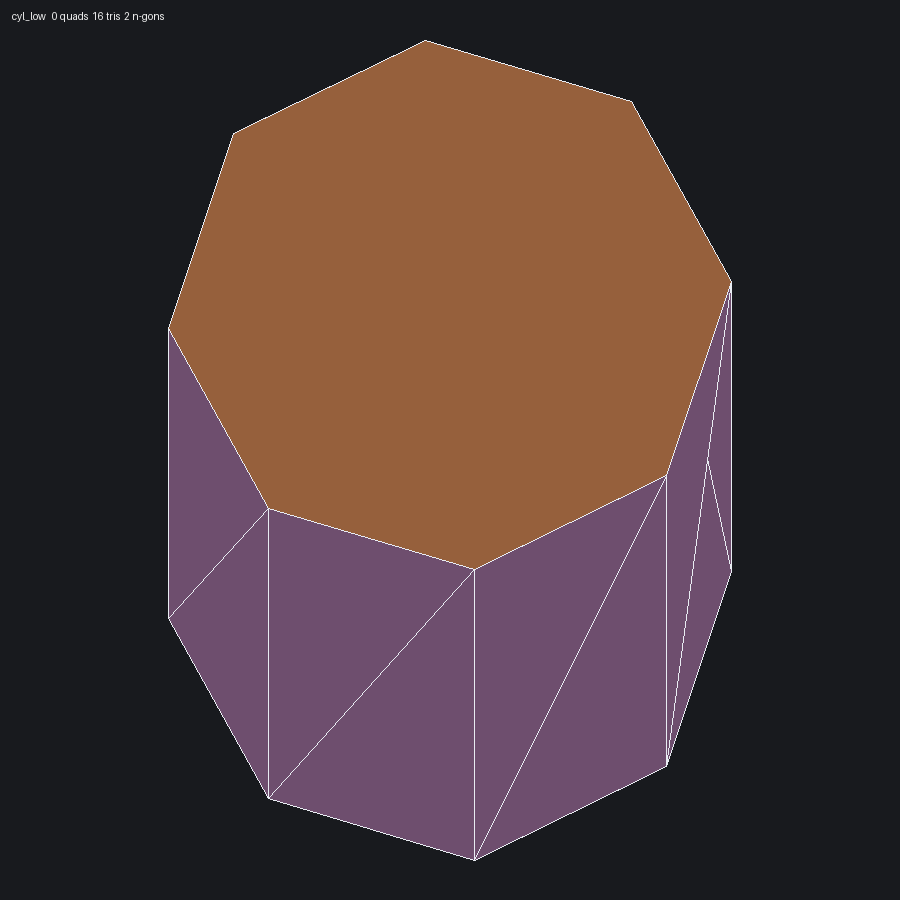
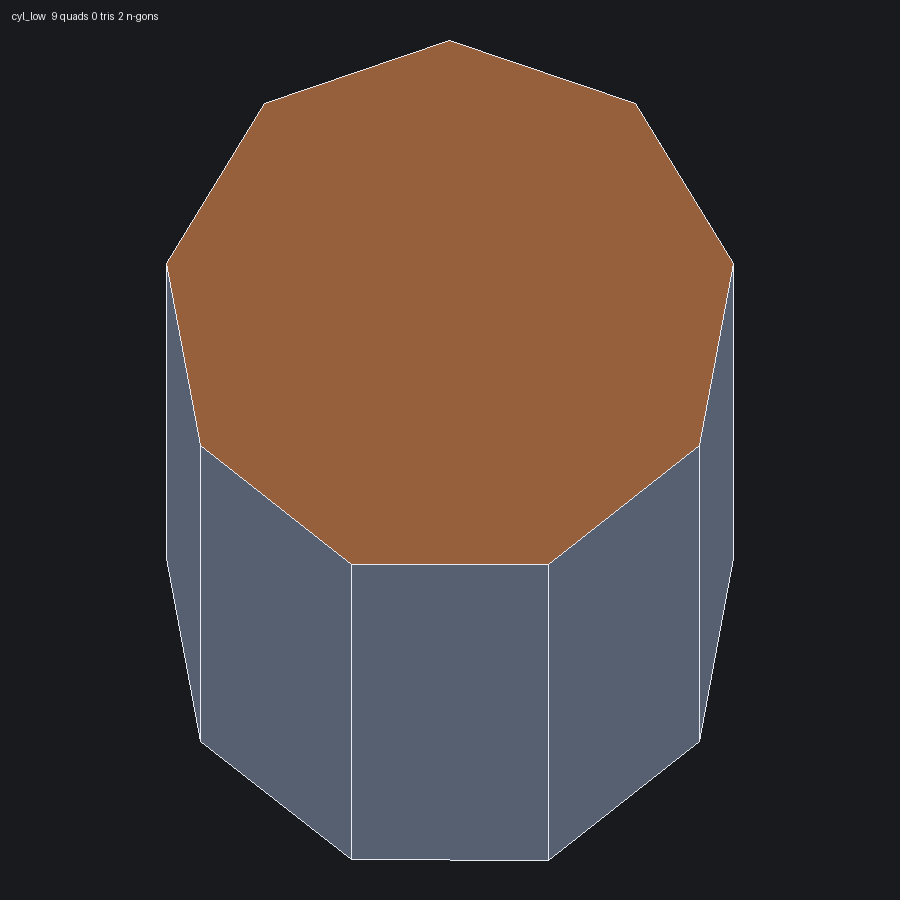
Emit analytic quads and hone fillets with preset maxAngle.
Cylinder/torus/fillet bands are UV quads; quality presets now set Pixyz-style
maxAngle alongside maxSag so small-radius fillets densify Low→Medium→High,
with circle edge samples locked to the same closed-form division count.

diff --git a/core/src/meshers.cpp b/core/src/meshers.cpp
@@ -105,7 +105,8 @@ std::vector<SamplePoint> sampleEdgeCurve(const TopoDS_Edge& edge, double sag,
     int n = mesher_detail::stableDeflectionCount(curve, angleTol, sag);
     n = std::max(1, n);
 
-    // Circles/arcs: also enforce closed-form sag count so Medium≠High.
+    // Circles/arcs: closed-form sag/angle count is authoritative so analytic
+    // UV grids and shared rim samples stay in lockstep.
     try {
         if (curve.GetType() == GeomAbs_Circle) {
             const double r = curve.Circle().Radius();
@@ -113,7 +114,7 @@ std::vector<SamplePoint> sampleEdgeCurve(const TopoDS_Edge& edge, double sag,
             const int full = circleDivisions(r, sag, angleDeg);
             const int forSpan =
                 std::max(1, int(std::ceil(full * (span / (2.0 * M_PI)))));
-            n = std::max(n, forSpan);
+            n = forSpan;
         }
     } catch (...) {
     }
@@ -576,12 +577,14 @@ bool meshAnalyticRevolution(const TopoDS_Face& face, int faceId, double sag,
     const double uSpan = u1 - u0;
     const double vSpan = v1 - v0;
     int nu = circleDivisions(radiusU, sag, angleDeg);
-    nu = std::max(3, int(std::ceil(nu * (uSpan / (2.0 * M_PI)))));
+    // Subtract epsilon so a full-period face (uSpan≈2π) does not ceil to nu+1.
+    nu = std::max(3, int(std::ceil(nu * (uSpan / (2.0 * M_PI)) - 1e-9)));
 
     int nv = 1;
     if (radiusV > 1e-12) {
         nv = circleDivisions(radiusV, sag, angleDeg);
-        nv = std::max(1, int(std::ceil(nv * (std::abs(vSpan) / (2.0 * M_PI)))));
+        nv = std::max(1, int(std::ceil(nv * (std::abs(vSpan) / (2.0 * M_PI)) -
+                                       1e-9)));
     } else {
         // Straight generators: sag along mid-U isocurve (usually 1).
         std::vector<gp_Pnt> probe;
@@ -680,12 +683,11 @@ bool meshAnalyticRevolution(const TopoDS_Face& face, int faceId, double sag,
             } else {
                 flipCell = faceReversed;
             }
+            // Analytic bands prefer quads (cylinder / torus / cone / sphere).
             if (!flipCell) {
-                out.addPolygon({ia, ib, ic}, faceId);
-                out.addPolygon({ia, ic, id}, faceId);
+                out.addPolygon({ia, ib, ic, id}, faceId);
             } else {
-                out.addPolygon({ia, ic, ib}, faceId);
-                out.addPolygon({ia, id, ic}, faceId);
+                out.addPolygon({ia, id, ic, ib}, faceId);
             }
             ++emitted;
         }
@@ -814,20 +816,25 @@ void meshFreeformFace(const TopoDS_Face& face, int faceId, double sag,
 }  // namespace
 
 void applyQualityPreset(FaceMeshSettings& s, QualityPreset preset) {
-    s.angleToleranceDeg = -1;
+    // Pixyz-style: maxSag + maxAngle. Angle densifies small-radius fillets
+    // when sag alone would leave them coarse (Pixyz docs / SDK examples).
     s.maxLength = -1;
     switch (preset) {
         case QualityPreset::VeryHigh:
             s.chordTolerance = 0.01;
+            s.angleToleranceDeg = 10.0;
             break;
         case QualityPreset::High:
             s.chordTolerance = 0.1;
+            s.angleToleranceDeg = 15.0;
             break;
         case QualityPreset::Medium:
             s.chordTolerance = 0.2;
+            s.angleToleranceDeg = 20.0;
             break;
         case QualityPreset::Low:
             s.chordTolerance = 1.0;
+            s.angleToleranceDeg = 40.0;
             break;
     }
 }

diff --git a/tests/test_accuracy_smoke.cpp b/tests/test_accuracy_smoke.cpp
@@ -44,9 +44,10 @@ static void testCylinderMedium() {
     CHECK(mesh.polygonCount() > 0);
     CHECK(mesh.countNgons() + mesh.countTris() + mesh.countQuads() ==
           mesh.polygonCount());
-    std::printf("  %zu verts, %zu polys (tris=%zu ngons=%zu)\n",
+    std::printf("  %zu verts, %zu polys (tris=%zu quads=%zu ngons=%zu)\n",
                 mesh.vertexCount(), mesh.polygonCount(), mesh.countTris(),
-                mesh.countNgons());
+                mesh.countQuads(), mesh.countNgons());
+    CHECK(mesh.countQuads() > 0);  // analytic cylinder wall = quads
 }
 
 static void testBoxPlanarNgons() {
@@ -118,16 +119,25 @@ static void testFilletFixture() {
     std::printf("-- fillet fixture meshes --\n");
     weft::Model model = loadFixture("fillet", "weft_acc_fillet.step");
     weft::Analysis analysis = weft::analyze(model);
-    weft::GenerationSettings gs;
-    weft::applyQualityPreset(gs.defaults, weft::QualityPreset::High);
-    // Fillets need maxAngle like Pixyz docs recommend.
-    gs.defaults.angleToleranceDeg = 20.0;
-    weft::GenerationReport report;
-    weft::PolyMesh mesh = weft::generate(model, analysis, gs, &report);
-    CHECK(mesh.polygonCount() > 0);
-    CHECK(mesh.vertexCount() > 8);
-    std::printf("  faces=%d verts=%zu polys=%zu\n", model.faceCount(),
-                mesh.vertexCount(), mesh.polygonCount());
+    weft::GenerationSettings lowGs, highGs;
+    weft::applyQualityPreset(lowGs.defaults, weft::QualityPreset::Low);
+    weft::applyQualityPreset(highGs.defaults, weft::QualityPreset::High);
+    weft::GenerationReport lowRep, highRep;
+    weft::PolyMesh low = weft::generate(model, analysis, lowGs, &lowRep);
+    weft::PolyMesh high = weft::generate(model, analysis, highGs, &highRep);
+    CHECK(low.polygonCount() > 0);
+    CHECK(high.polygonCount() > low.polygonCount());
+    // Fillet arc edge divisions must rise with tighter sag/angle.
+    auto maxDiv = [](const weft::GenerationReport& r) {
+        int best = 0;
+        for (const auto& [eid, n] : r.edgeDivisions) best = std::max(best, n);
+        return best;
+    };
+    CHECK(maxDiv(highRep) > maxDiv(lowRep));
+    CHECK(high.countQuads() > 0);  // fillet strip is analytic quads
+    std::printf("  Low=%zu/%d High=%zu/%d (polys/maxEdgeDiv) quads=%zu\n",
+                low.polygonCount(), maxDiv(lowRep), high.polygonCount(),
+                maxDiv(highRep), high.countQuads());
 }
 
 static void testHolePlateKeyhole() {

diff --git a/core/include/weft/meshers.hpp b/core/include/weft/meshers.hpp
@@ -18,12 +18,12 @@ enum class CapStyle {
     Fan,   // center vertex + triangle fan
 };
 
-// Pixyz-aligned quality presets (maxSag mm). Angle/length stay off (−1).
+// Pixyz-aligned quality presets (maxSag mm + maxAngle deg).
 enum class QualityPreset {
-    VeryHigh = 0,  // maxSag 0.01
-    High = 1,      // maxSag 0.1
-    Medium = 2,    // maxSag 0.2
-    Low = 3,       // maxSag 1.0
+    VeryHigh = 0,  // maxSag 0.01, maxAngle 10°
+    High = 1,      // maxSag 0.1,  maxAngle 15°
+    Medium = 2,    // maxSag 0.2,  maxAngle 20°
+    Low = 3,       // maxSag 1.0,  maxAngle 40°
 };
 
 // Named, per-face density controls (the plan's §3.3). A face picks up the
@@ -37,7 +37,7 @@ struct FaceMeshSettings {
     // Accuracy-path density (Pixyz-inspired): chordTolerance ≡ maxSag (mm).
     // angleToleranceDeg < 0 means off (Pixyz default). maxLength < 0 means off.
     double chordTolerance = 0.2;   // maxSag — Medium preset default
-    double angleToleranceDeg = -1; // maxAngle; −1 = unconstrained
+    double angleToleranceDeg = 20.0; // maxAngle; −1 = unconstrained
     double maxLength = -1;         // max edge length; −1 = unconstrained
     // Fillet/blend faces: divisions ACROSS the blend (support loops for
     // baking) and how strongly the loops cluster toward the creases

diff --git a/docs/ACCURACY_BRANCH.md b/docs/ACCURACY_BRANCH.md
@@ -9,24 +9,25 @@ Working now:
 
 - Shared topological-edge sample map (finest adjacent-face sag wins)
 - Planar faces → boundary n-gons; holes keyhole-bridged into one n-gon
-- Analytic cylinder/cone/sphere/torus from closed-form circle sag
-- Torus/fillet uses major+minor radii for U/V density
+- Analytic cylinder/cone/sphere/torus as UV **quads** (closed-form circle sag)
+- Presets hone with maxSag + maxAngle (Pixyz-style fillet densify)
+- Torus uses major+minor radii for U/V density
 - Freeform → trimmed UV grid (`BRepTopAdaptor_FClass2d`)
-- Presets hone density: Low / Medium / High change rim divisions
-- Normal-aware triangle winding
+- Normal-aware polygon winding
 
 Still open:
 
 - Multi-hole pathological bridges (fallback leaves hole unmerged)
 - Pixyz side-by-side calibration on MP9
 - App UI for accuracy knobs (`-DWEFT_BUILD_APP=ON` still parked)
-- Quads on analytic bands (currently tris)
+- Drive analytic UV from shared edge samples (exact rim index share)
 
 ## What changed
 
 - `core/src/legacy/meshers_structured.cpp` — archived RevolutionGrid/Coons/… (not built)
 - `core/src/meshers.cpp` — accuracy `generate()`
-- Density UX: `QualityPreset` + `chordTolerance` (maxSag), `angleToleranceDeg` (−1 = off), `maxLength` (−1 = off)
+- Density UX: `QualityPreset` + `chordTolerance` (maxSag), `angleToleranceDeg`
+  (maxAngle; −1 = off), `maxLength` (−1 = off). Presets set both sag and angle.
 - `weft_app` off by default; smoke tests in `tests/test_accuracy_smoke.cpp`
 
 ## Build
